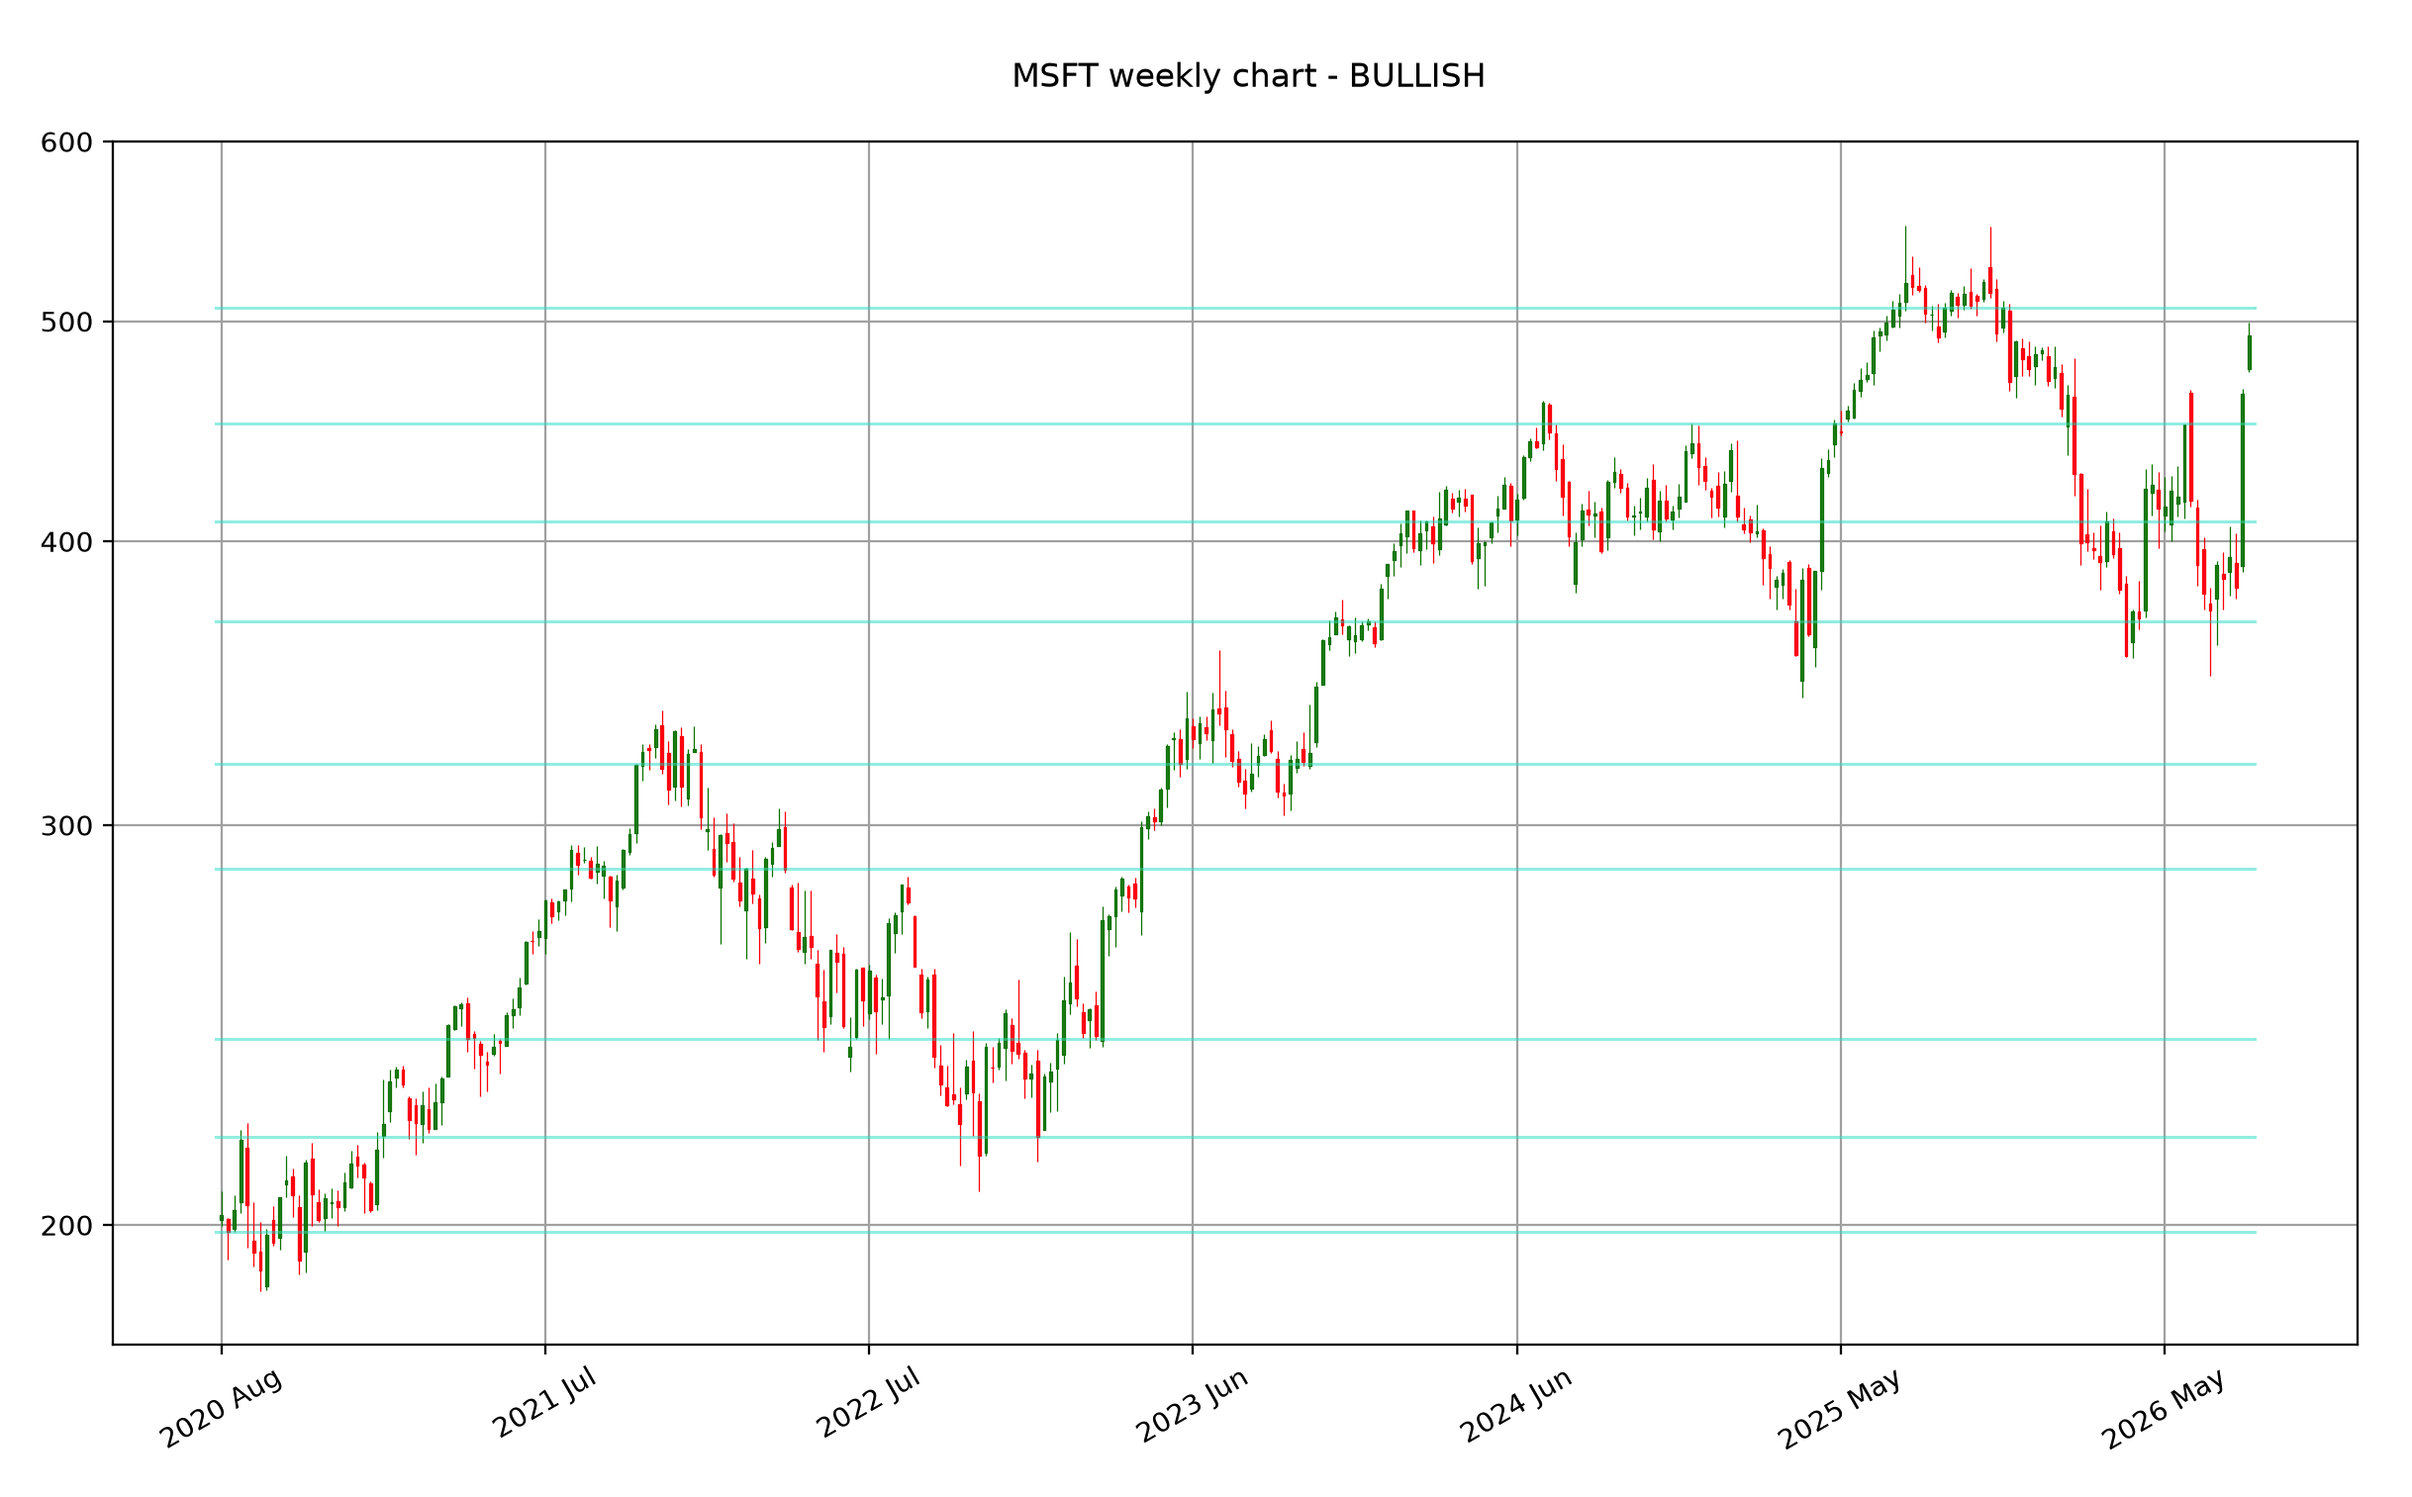
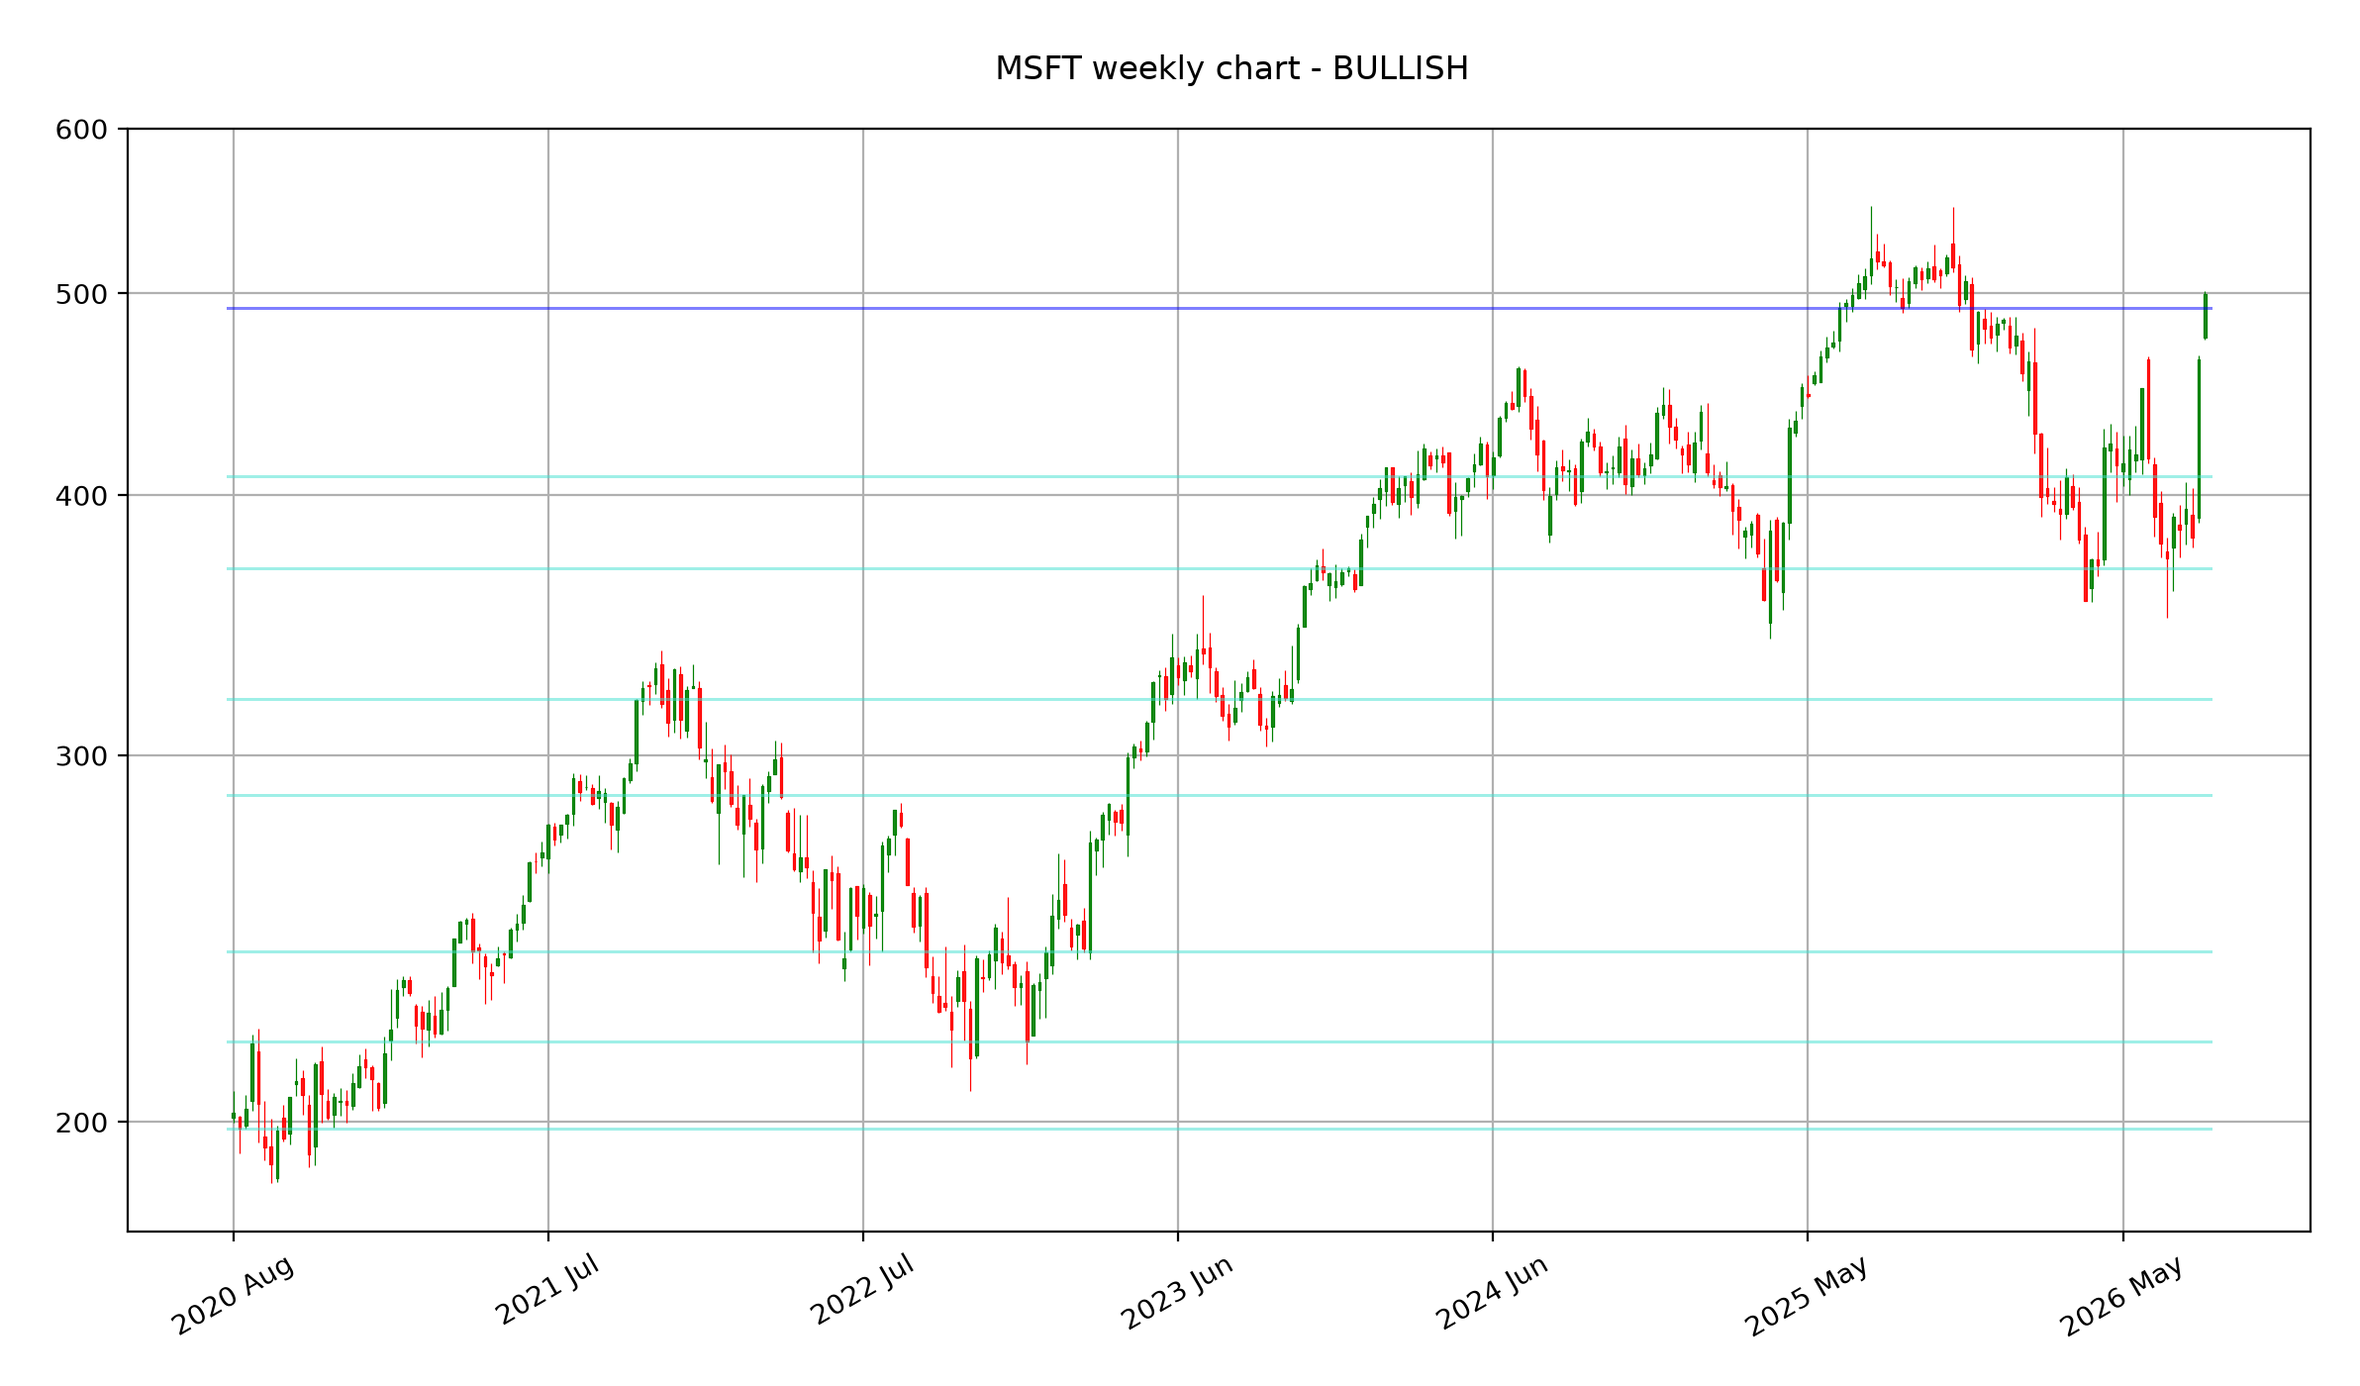
update sample image with bold key line

diff --git a/README.md b/README.md
@@ -13,6 +13,6 @@ python3 -m st13 SYMBOL
 
 The package works by identifying clusters of weekly closing prices that are statistically significant. The rationale is if price has moved above a key level, the bias is bullish and if price has moved below a key level, the bias is bearish. Because the market is moving away from a key price level. Naturally, there can be whipsaws around key levels.
 
-More on how this project came about and commentary on the sample chart below at this [LinkedIn post](https://www.linkedin.com/posts/kensoh_ive-just-published-the-beta-version-of-st13-share-7491391742349369344-guBe/).
+More on how this project came about and commentary on the sample chart at this [LinkedIn post](https://www.linkedin.com/posts/kensoh_ive-just-published-the-beta-version-of-st13-share-7491391742349369344-guBe/).
  
 ![png](https://raw.githubusercontent.com/street13capital/st13/refs/heads/main/sample.png)
